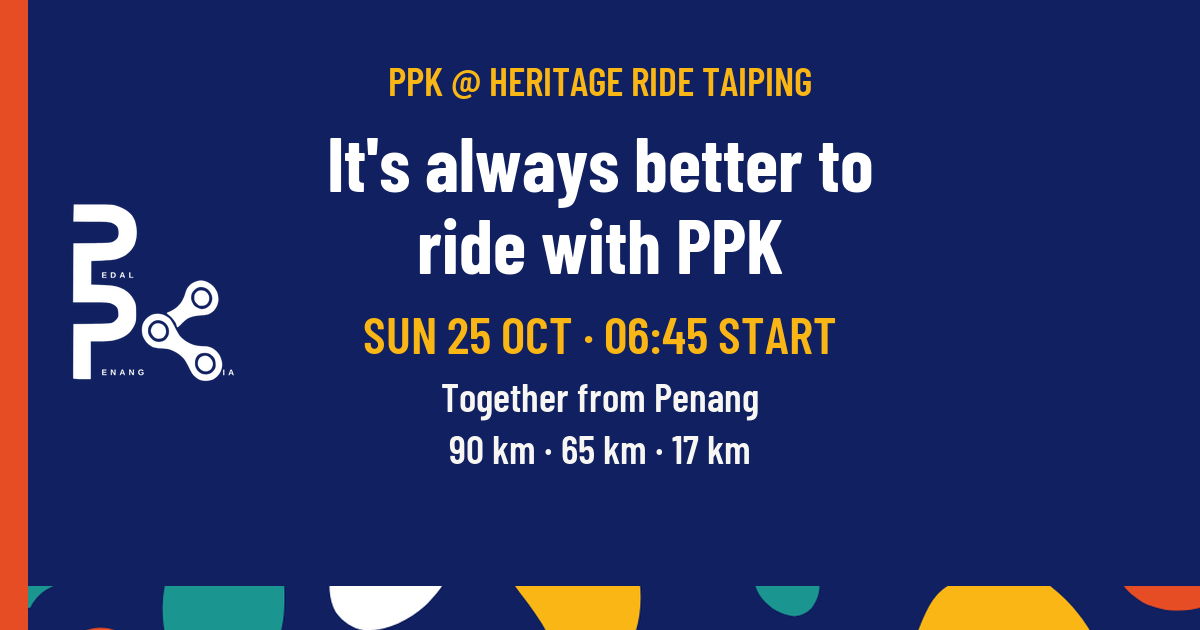
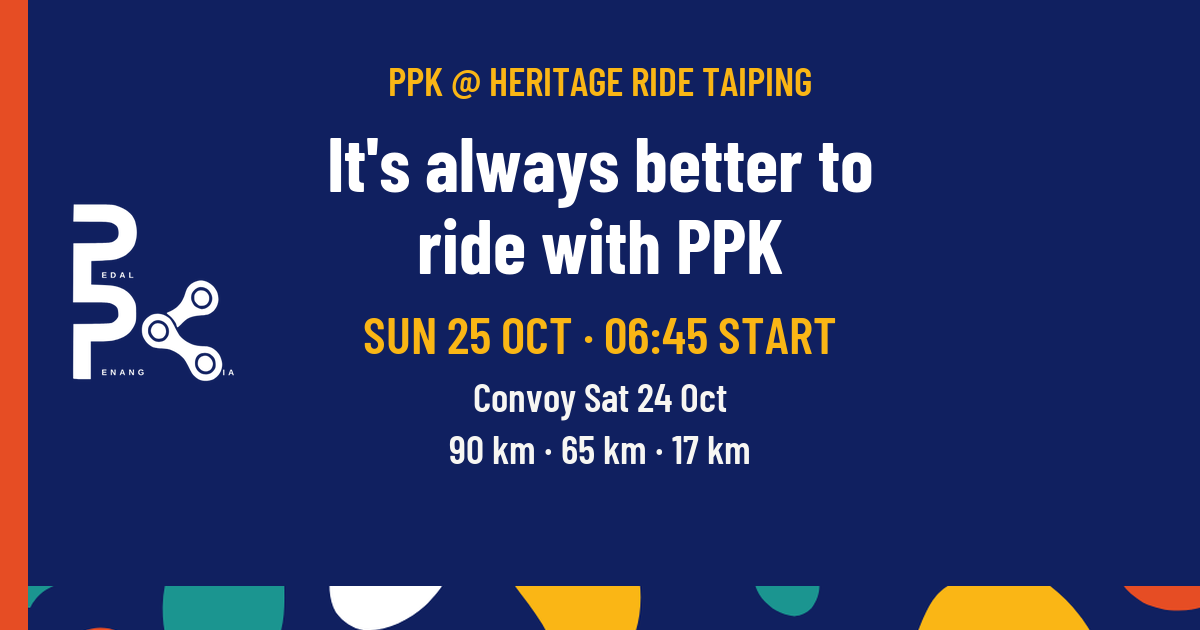
Update results site from 34cc9ff

Changed region(s): [[0.37, 0.6032, 0.6475, 0.6635]]

diff --git a/trips/heritage-ride-taiping-2026.html b/trips/heritage-ride-taiping-2026.html
@@ -30,6 +30,7 @@
 .trip-away { font-family: 'Barlow Condensed', sans-serif; font-weight: 700; font-size: 22px;
   line-height: 1.2; text-transform: uppercase; letter-spacing: .02em; margin: 12px 0 0; }
 .trip-hero p.trip-intro { color: #e6e8f3; margin: 10px 0 0; }
+.trip-hero p.trip-updated { color: #cfd3ea; font-size: 14px; margin: 12px 0 0; }
 .trip-chips { display: flex; flex-wrap: wrap; gap: 8px; margin: 14px 0 0; padding: 0;
   list-style: none; }
 .trip-chips li { border: 1.5px solid #cfd3ea; border-radius: 20px; padding: 3px 12px;
@@ -37,29 +38,63 @@
 .trip-band { height: 14px; background: var(--navy) url("ppk-pattern-2025-v1.png") center 40% / cover no-repeat;
   border-radius: 0 0 14px 14px; margin-bottom: 8px; }
 @media (min-width: 960px) { .trip-band { height: 18px; } }
-.trip a.tap { display: inline-flex; align-items: center; min-height: 44px; min-width: 44px; }
 .trip .btn { min-height: 44px; display: inline-flex; align-items: center; }
 .trip-hero .btn { background: #fff; color: var(--navy); }
 .trip-hero .btn.btn-accent { background: var(--orange); color: #fff; }
 .trip-hero .btn.btn-whatsapp { background: #25D366; color: #0B2B16; }
+.trip .btn-line { background: #fff; color: var(--navy); border: 1.5px solid var(--navy); }
+.trip .btn-line:hover { background: var(--paper); }
+.trip .btn-small { font-size: 15px; padding: 0 14px; }
+.trip .btn-accent { background: var(--orange); color: #fff; }
+.trip .btn-block { display: flex; justify-content: center; width: 100%; }
+.trip-jump { display: flex; flex-wrap: wrap; gap: 0 4px; margin: 4px 0 0; }
+.trip .trip-jump a { display: inline-flex; align-items: center; min-height: 44px; padding: 0 8px;
+  font-family: 'Barlow Condensed', sans-serif; font-weight: 600; font-size: 16px;
+  letter-spacing: .05em; text-transform: uppercase; color: var(--navy); text-decoration: none;
+  border-bottom: 2px solid transparent; }
+.trip .trip-jump a:hover { border-color: var(--orange); }
 .trip-card { background: #fff; border-radius: 12px; padding: 18px 18px 16px; margin: 16px 0 0;
   box-shadow: 0 1px 4px rgba(16,32,96,.10); }
 .trip-card h2 { margin: 0 0 10px; }
-.trip-card h3 { font-family: 'Barlow Condensed', sans-serif; font-size: 20px; color: var(--navy);
-  margin: 14px 0 6px; }
-.trip-facts { list-style: none; padding: 0; margin: 0; display: grid; gap: 12px; }
-.trip-facts b { display: block; }
-.trip-facts small, .trip-src { display: block; color: #4f5268; font-size: 14px; }
+.trip-day { display: flex; align-items: baseline; justify-content: space-between; gap: 12px;
+  margin: 0 0 12px; }
+.trip-card .trip-day h2 { margin: 0; }
+.trip-day span, .trip-kt h3, .trip-sub { font-family: 'Barlow Condensed', sans-serif;
+  font-weight: 700; letter-spacing: .08em; text-transform: uppercase; }
+.trip-day span { font-size: 16px; color: #4f5268; }
+.trip-kt { display: grid; grid-template-columns: 1fr 1fr; gap: 16px; }
+.trip-kt h3 { font-size: 17px; color: var(--navy); margin: 0 0 8px; }
+.trip-kt ul { list-style: none; padding: 0; margin: 0; display: grid; gap: 8px; }
+.trip-kt li { display: grid; grid-template-columns: 52px 1fr; gap: 6px; font-size: 15px;
+  line-height: 1.35; }
+.trip-kt .at, .trip-steps .at { font-family: 'Barlow Condensed', sans-serif; font-weight: 700;
+  color: var(--navy); text-transform: uppercase; }
+.trip-kt .at { font-size: 16px; }
+.trip-steps { list-style: none; padding: 0; margin: 0; display: grid; gap: 14px; }
+.trip-steps li { display: grid; grid-template-columns: 64px 1fr; gap: 12px; align-items: start; }
+.trip-steps .at { font-size: 18px; line-height: 1.25; }
+.trip-steps b { display: block; }
+.trip-steps p { margin: 2px 0 0; font-size: 15px; color: #4f5268; }
+.trip-acts { display: flex; flex-wrap: wrap; gap: 8px; margin: 8px 0 0; }
+.trip-warn, .trip-note { border-radius: 10px; padding: 12px 14px; margin: 16px 0 0; }
+.trip-warn { background: rgba(250,182,21,.16); border-left: 6px solid var(--mustard); }
+.trip-note { background: #dee0e9; }
+.trip-warn b, .trip-note b { display: block; }
+.trip-sub { font-size: 17px; color: var(--navy); margin: 16px 0 8px; }
+.trip-card .trip-sub:first-of-type { margin-top: 0; }
+.trip ul.trip-list { padding-left: 20px; margin: 0; }
+.trip-rows { list-style: none; padding: 0; margin: 0; border: 1px solid #e3e5ee; border-radius: 10px; }
+.trip-rows li { display: flex; align-items: center; justify-content: space-between; gap: 12px;
+  padding: 10px 12px; }
+.trip-rows li + li { border-top: 1px solid #e3e5ee; }
+.trip-rows b, .trip-contact b { display: block; }
+.trip-rows small, .trip-src { display: block; color: #4f5268; font-size: 14px; }
 .trip-src { margin-top: 12px; }
+.trip-contact { padding: 12px 0 0; margin-top: 12px; border-top: 1px solid #e3e5ee; }
+.trip-contact p { margin: 2px 0 0; font-size: 15px; color: #4f5268; }
+.trip-muted { color: #4f5268; font-size: 15px; margin: 8px 0 0; }
 .tbc { display: inline-block; border: 1.5px solid #7f849b; border-radius: 20px;
   padding: 0 10px; font-size: 14px; font-weight: 600; color: #1c1c28; margin-left: 4px; }
-.trip-steps { list-style: none; padding: 0; margin: 0; display: grid; gap: 12px; }
-.trip-steps li { display: grid; grid-template-columns: 72px 1fr; gap: 12px; }
-.trip-steps .at { font-family: 'Barlow Condensed', sans-serif; font-weight: 700; font-size: 18px;
-  color: var(--navy); text-transform: uppercase; }
-.trip-note { background: #dee0e9; border-radius: 10px; padding: 12px 14px; margin: 12px 0 0; }
-.trip-note b { display: block; }
-.trip ul.trip-list { padding-left: 20px; margin: 0; }
 .trip-faq dt { font-weight: 600; margin-top: 12px; }
 .trip-faq dd { margin: 2px 0 0; }
 </style>
@@ -370,66 +405,91 @@ footer { background: var(--navy); color: #cfd3ea; }
 <main>
 <div class="trip">
 <section class="trip-hero">
-<p class="trip-kicker">PPK away trip · Sun 25 Oct</p>
+<p class="trip-kicker">PPK away trip · Sat 24 to Sun 25 Oct</p>
 <h1>Heritage Ride <em>Taiping</em></h1>
 <p class="trip-away">It&#x27;s always better to ride with PPK</p>
-<p class="trip-intro">PPK members travel up together: carpools from Penang, one meeting point at the start, and a meal after the ride.</p>
+<p class="trip-intro">Drive up on Saturday, collect your race pack, stay the night. Race on Sunday morning, then makan.</p>
 <ul class="trip-chips" aria-label="Distances"><li>90 km</li><li>65 km</li><li>17 km fun ride</li></ul>
 <div class="home-actions"><a class="btn btn-accent" href="../rides.html">See trip listings</a><a class="btn btn-whatsapp" href="https://wa.me/?text=PPK%20%40%20Heritage%20Ride%20Taiping%202026%3A%20https%3A%2F%2Fhubertfong.github.io%2Fppk-results%2Ftrips%2Fheritage-ride-taiping-2026.html">Share on WhatsApp</a></div>
+<p class="trip-updated">Updated Sun 18 Oct</p>
 </section>
 <div class="trip-band" aria-hidden="true"></div>
-<section class="trip-card" id="event">
-<h2>The event</h2>
-<ul class="trip-facts">
-<li><b>Sun 25 Oct 2026 · 06:45 start</b><small>Entries closed on 17 September 2026. Riders without an entry are not allowed on the routes. There is no sign-up for the event on this page.</small></li>
-<li><b>Dataran Warisan Taiping, Perak</b> <a class="tap" href="https://www.google.com/maps/search/?api=1&amp;query=Dataran%20Warisan%20Taiping%2C%20Perak">Map</a><small>Start and finish</small></li>
-<li><b>90 km and 65 km races · 17 km fun ride</b><small>Flag-off: 90 km 06:45 · 65 km 07:10 · 17 km 07:25</small><small>Cut-off: 90 km 5 hours · 65 km 3.5 hours</small></li>
-<li><b>90 km route: 90.0 km and 383 m of climbing</b> <a class="tap" href="heritage-ride-taiping-2026-90km.gpx" download>Download the GPX</a><small>Load it on your bike computer before the ride.</small></li>
-<li><b>On the day</b><small>Arrive by 05:30. Riders gather at the starting arch at 06:30 for the technical briefing. Prizes at 11:00, the lucky draw at 11:30, and the event ends at 12:00.</small></li>
-<li><b>Kit collection</b><small>Sat 24 Oct only, 11:00 to 18:00, at Taiping Mall, Level G concourse. Bring your IC and your confirmation slip (a soft copy is fine). To collect for someone else, bring their completed authorisation form from the organiser.</small></li>
-<li><b>Road closures</b><small>Around Dataran Warisan Taiping, from Dewan MPT to Public Bank from Sat 24 Oct at 17:00, and from Dewan MPT to Kedai Elektrik Singer from Sat 24 Oct at 23:00, both until Sun 25 Oct at 12:00. Jalan Taming Sari is closed from 07:00 to 12:00 on Sunday.</small></li>
-</ul>
-<p class="trip-src">Run by <a href="https://www.facebook.com/GoSportzEvent/">GoSportz, with Kelab Berbasikal Elit and the office of the Member of Parliament for Taiping</a>. PPK does not run this event.</p>
-<p class="trip-src">Checked 17 Oct 2026 against facebook.com (<a href="https://www.facebook.com/GoSportzEvent/posts/pfbid0Knnib56T1KiZBsRFSVZbRHVdYYrrYmS1Tgg6Q176YRZvfwMbVZUuj8QUg5d1zoB8l" aria-label="facebook.com source 1">1</a>, <a href="https://www.facebook.com/GoSportzEvent/posts/pfbid0MNdmXWpumLLA9L4SHr5Gh41u8Tm7riJnGEAbfyGCYCqKdbjy5PEWDidjAt8MPBxWl" aria-label="facebook.com source 2">2</a>, <a href="https://www.facebook.com/GoSportzEvent/posts/pfbid0ytsfqhJgG35GwHZgueSPhbGzirk5EQ22mNZPXnZTMFto2PeuJL79z3mMt4qUZKvdl" aria-label="facebook.com source 3">3</a>, <a href="https://www.facebook.com/GoSportzEvent/posts/pfbid02gGLbjfBafSsk71GP4eBphQwGxyK1rzwfa7x3iJPi2SvvS3VshkcehG89rtnt5zmVl" aria-label="facebook.com source 4">4</a>, <a href="https://www.facebook.com/photo/?fbid=1692699242856838&amp;set=a.496464139147027" aria-label="facebook.com source 5">5</a>, <a href="https://www.facebook.com/GoSportzEvent/posts/pfbid0LiC8nBAEyg2nVUEA33zWJy2R7hhADotAgZYJt7vxkWAkb5pyAVALgjgWoHhCpVr7l" aria-label="facebook.com source 6">6</a>), <a href="https://www.utusan.com.my/terkini/2026/07/heritage-ride-taiping-sasar-2000-peserta/">utusan.com.my</a>, <a href="https://www.sinarharian.com.my/article/790300/">sinarharian.com.my</a>, <a href="https://allevents.in/taiping-pk">allevents.in</a>.</p>
+<nav class="trip-jump" aria-label="On this page"><a href="#key-times">Key times</a><a href="#saturday">Saturday</a><a href="#sunday">Sunday</a><a href="#ride">The ride</a><a href="#food">Food</a><a href="#emergency">Emergency</a></nav>
+<section class="trip-card" id="key-times">
+<h2>Key times</h2>
+<div class="trip-kt"><div><h3>Sat 24</h3><ul><li><span class="at"><span aria-hidden="true">–</span></span><span>Convoy leaves <span class="tbc">To be confirmed</span></span></li><li><span class="at">17:00</span><span>At Taiping Mall</span></li><li><span class="at"><span aria-hidden="true">–</span></span><span>Dinner <span class="tbc">To be confirmed</span></span></li></ul></div><div><h3>Sun 25</h3><ul><li><span class="at">05:30</span><span>At the start</span></li><li><span class="at">06:45</span><span>First flag-off</span></li><li><span class="at"><span aria-hidden="true">–</span></span><span>Makan <span class="tbc">To be confirmed</span></span></li></ul></div></div>
 </section>
-<section class="trip-card" id="plan">
-<h2>PPK's plan</h2>
+<div class="trip-warn" role="note"><b>Race packs: Saturday only, until 6 pm</b>Be at Taiping Mall by 5 pm. Each rider collects their own. No pack, no race.</div>
+<section class="trip-card" id="saturday">
+<div class="trip-day"><h2>Saturday</h2><span>24 Oct</span></div>
 <ol class="trip-steps">
-<li><span class="at">Sat 24</span><span>Kit collection: Sat 24 Oct only, 11:00 to 18:00, at Taiping Mall, Level G concourse. Bring your IC and your confirmation slip (a soft copy is fine). To collect for someone else, bring their completed authorisation form from the organiser. Overnight stay <span class="tbc">To be confirmed</span>.</span></li>
-<li><span class="at">Sun 25</span><span>Convoy leaves Penang <span class="tbc">Time to be confirmed</span>. Pickup points: <span class="tbc">To be confirmed</span>.</span></li>
-<li><span class="at">Before</span><span>PPK meets at the start: <span class="tbc">To be confirmed</span>. Group photo before the start.</span></li>
-<li><span class="at">06:45</span><span>Flag-off: 90 km 06:45 · 65 km 07:10 · 17 km 07:25, at Dataran Warisan Taiping, Perak.</span></li>
-<li><span class="at">After</span><span>PPK meets at the finish: <span class="tbc">To be confirmed</span>. Headcount, then the meal.</span></li>
+<li><span class="at"><span aria-hidden="true">–</span></span><div><b>Convoy leaves Penang <span class="tbc">Time to be confirmed</span></b><p>From <span class="tbc">To be confirmed</span>. Rest stop at <span class="tbc">To be confirmed</span>. Your car is a listing on <a href="../rides.html">Group rides</a>, titled "Taiping trip · Car 1 · …".</p><div class="trip-acts"><a class="btn btn-line btn-small" href="../rides.html">See the cars</a></div></div></li>
+<li><span class="at">By 17:00</span><div><b>Race pack, Taiping Mall</b><p>Sat 24 Oct only, 11:00 to 18:00, at Taiping Mall, Level G concourse. Bring your IC and your confirmation slip (a soft copy is fine). To collect for someone else, bring their completed authorisation form from the organiser.</p><div class="trip-acts"><a class="btn btn-line btn-small" href="https://www.google.com/maps/search/?api=1&amp;query=Taiping%20Mall%2C%20Taiping%2C%20Perak" aria-label="Map: Taiping Mall, Taiping, Perak">Map</a></div></div></li>
+<li><span class="at">Then</span><div><b>Check in</b><p>At your own hotel. Keep your bike in your room.</p></div></li>
+<li><span class="at"><span aria-hidden="true">–</span></span><div><b>Dinner together <span class="tbc">Time to be confirmed</span></b><p><span class="tbc">To be confirmed</span>. Sign up on <a href="../rides.html">Group rides</a> so we keep a table.</p></div></li>
+<li><span class="at">Night</span><div><b>Early night</b><p>Buy breakfast for 4:30 am. Charge your lights.</p></div></li>
 </ol>
-<h3>Getting there</h3>
-<p>Each car is a listing on <a href="../rides.html">Group rides</a>, titled <b>"Taiping trip · Car 1 · …"</b>. Book a seat with your PPK account. Pickup points are public places, never a member's home.</p>
-<div class="trip-note" role="note"><b>Share tolls and petrol with your driver.</b>Cars are arranged between members. PPK's ride terms cover the cycling, not the drive.</div>
+<div class="trip-note" role="note"><b>Share tolls and petrol with your driver.</b>Cars are arranged between members. PPK's ride terms cover the cycling, not the drive. Pickup points are public places, never a member's home.</div>
+<p class="trip-src">Checked 18 Oct 2026 against facebook.com (<a href="https://www.facebook.com/GoSportzEvent/posts/pfbid0ytsfqhJgG35GwHZgueSPhbGzirk5EQ22mNZPXnZTMFto2PeuJL79z3mMt4qUZKvdl" aria-label="facebook.com source 1">1</a>, <a href="https://www.facebook.com/GoSportzEvent/posts/pfbid0Knnib56T1KiZBsRFSVZbRHVdYYrrYmS1Tgg6Q176YRZvfwMbVZUuj8QUg5d1zoB8l" aria-label="facebook.com source 2">2</a>).</p>
 </section>
-<section class="trip-card" id="race-day">
-<h2>Race day</h2>
-<h3>Bring</h3>
-<ul class="trip-list"><li>Helmet, and front and rear lights</li><li>Your bib and ID</li><li>Spare tube, pump and tools</li><li>Water and food for your distance</li><li>PPK kit for the group photo</li></ul>
-<h3>The organiser's rules</h3>
-<p>Your rider bib and bike flag number are compulsory at check-in. On the 90 and 65 km, fix the bike bib with the timing chip to the front of the bike, 1 cm clear of any carbon. Wear a helmet and gloves. The 90 and 65 km routes split at the 4.8 km junction: follow the route signs and the marshals.</p>
+<section class="trip-card" id="sunday">
+<div class="trip-day"><h2>Sunday</h2><span>25 Oct · race day</span></div>
+<ol class="trip-steps">
+<li><span class="at">04:30</span><div><b>Wake up and eat</b><p>Hotel breakfast won't be open yet.</p></div></li>
+<li><span class="at">05:30</span><div><b>At the start</b><p>Dataran Warisan Taiping, Perak. Park at <span class="tbc">To be confirmed</span>.</p><div class="trip-acts"><a class="btn btn-line btn-small" href="https://www.google.com/maps/search/?api=1&amp;query=Dataran%20Warisan%20Taiping%2C%20Perak" aria-label="Map: start: Dataran Warisan Taiping, Perak">Map: start</a></div></div></li>
+<li><span class="at"><span aria-hidden="true">–</span></span><div><b>PPK meets <span class="tbc">Time to be confirmed</span></b><p><span class="tbc">To be confirmed</span>. Group photo.</p></div></li>
+<li><span class="at">06:30</span><div><b>Briefing at the starting arch</b></div></li>
+<li><span class="at">06:45</span><div><b>Flag-off</b><p>90 km 06:45 · 65 km 07:10 · 17 km 07:25</p></div></li>
+<li><span class="at">After</span><div><b>PPK meets at the finish</b><p><span class="tbc">To be confirmed</span>. Headcount before anyone leaves.</p></div></li>
+<li><span class="at">11:00</span><div><b>Prizes</b></div></li>
+<li><span class="at">11:30</span><div><b>Lucky draw</b></div></li>
+<li><span class="at">12:00</span><div><b>The event ends</b></div></li>
+<li><span class="at"><span aria-hidden="true">–</span></span><div><b>Makan <span class="tbc">Time to be confirmed</span></b><p><span class="tbc">To be confirmed</span>. Sign up on <a href="../rides.html">Group rides</a>.</p></div></li>
+<li><span class="at">Later</span><div><b>See Taiping, then home</b><p>Optional. PPK's picks are under Food and sightseeing.</p></div></li>
+</ol>
+<p class="trip-src">Checked 17 Oct 2026 against facebook.com (<a href="https://www.facebook.com/GoSportzEvent/posts/pfbid0MNdmXWpumLLA9L4SHr5Gh41u8Tm7riJnGEAbfyGCYCqKdbjy5PEWDidjAt8MPBxWl" aria-label="facebook.com source 1">1</a>, <a href="https://www.facebook.com/GoSportzEvent/posts/pfbid0Knnib56T1KiZBsRFSVZbRHVdYYrrYmS1Tgg6Q176YRZvfwMbVZUuj8QUg5d1zoB8l" aria-label="facebook.com source 2">2</a>, <a href="https://www.facebook.com/GoSportzEvent/posts/pfbid0ytsfqhJgG35GwHZgueSPhbGzirk5EQ22mNZPXnZTMFto2PeuJL79z3mMt4qUZKvdl" aria-label="facebook.com source 3">3</a>), <a href="https://www.utusan.com.my/terkini/2026/07/heritage-ride-taiping-sasar-2000-peserta/">utusan.com.my</a>, <a href="https://www.sinarharian.com.my/article/790300/">sinarharian.com.my</a>, <a href="https://allevents.in/taiping-pk">allevents.in</a>.</p>
+</section>
+<section class="trip-card" id="ride">
+<h2>The ride</h2>
+<ul class="trip-rows"><li><div><b>90 km race</b><small>Flag-off 06:45</small><small>Cut-off 5 hours</small></div></li><li><div><b>65 km race</b><small>Flag-off 07:10</small><small>Cut-off 3.5 hours</small></div></li><li><div><b>17 km fun ride</b><small>Flag-off 07:25</small></div></li></ul>
+<ul class="trip-list" style="margin-top:12px"><li>Ride your own pace. PPK regroups at the finish, not on the road.</li></ul>
+<div class="trip-warn" role="note"><b>Official GPX: to be confirmed</b>The file below is from Garmin Connect, not the organiser, and may differ from the race route. Have the organiser&#x27;s GPX? Please share it in the PPK WhatsApp group.</div>
+<ul class="trip-rows" style="margin-top:12px"><li><div><b>90 km route file (unofficial)</b><small>90.0 km · 383 m of climbing</small></div><a class="btn btn-line btn-small" href="heritage-ride-taiping-2026-90km.gpx" download>Download</a></li></ul>
+<p class="trip-src">Checked 17 Oct 2026 against facebook.com (<a href="https://www.facebook.com/GoSportzEvent/posts/pfbid0Knnib56T1KiZBsRFSVZbRHVdYYrrYmS1Tgg6Q176YRZvfwMbVZUuj8QUg5d1zoB8l" aria-label="facebook.com source 1">1</a>, <a href="https://www.facebook.com/GoSportzEvent/posts/pfbid02gGLbjfBafSsk71GP4eBphQwGxyK1rzwfa7x3iJPi2SvvS3VshkcehG89rtnt5zmVl" aria-label="facebook.com source 2">2</a>).</p>
+</section>
+<section class="trip-card" id="before">
+<h2>Before you go</h2>
+<p class="trip-sub">The organiser's rules</p>
+<ul class="trip-list"><li>Your rider bib and bike flag number are compulsory at check-in.</li><li>On the 90 and 65 km, fix the bike bib with the timing chip to the front of the bike, 1 cm clear of any carbon.</li><li>Wear a helmet and gloves.</li><li>The 90 and 65 km routes split at the 4.8 km junction: follow the route signs and the marshals.</li></ul>
 <p class="trip-src">Checked 17 Oct 2026 against facebook.com (<a href="https://www.facebook.com/GoSportzEvent/posts/pfbid02LAdX7cnK64MXjSitQL2tYQF7tiw4XZnPe9BajnGpoueSnemdZWrGoNzkJPmUZnYql" aria-label="facebook.com source 1">1</a>, <a href="https://www.facebook.com/GoSportzEvent/posts/pfbid02gGLbjfBafSsk71GP4eBphQwGxyK1rzwfa7x3iJPi2SvvS3VshkcehG89rtnt5zmVl" aria-label="facebook.com source 2">2</a>).</p>
-<h3>The 90 km and 65 km are races</h3>
-<p>Ride your own race. PPK regroups at the finish meeting point, not on the road.</p>
+<p class="trip-sub">Bring</p>
+<ul class="trip-list"><li>Helmet, gloves, front and rear lights (it&#x27;s dark at the start)</li><li>IC, confirmation slip, bib</li><li>Spare tube, pump and tools</li><li>Water and food for your distance</li><li>A rain jacket</li><li>Breakfast for 4:30 am</li><li>PPK kit for the group photo</li></ul>
 </section>
-<section class="trip-card" id="meals">
-<h2>Meals and sightseeing</h2>
-<ul class="trip-facts">
-<li><b>Makan after the ride</b> <span class="tbc">To be confirmed</span><small>Sign up on <a href="../rides.html">Group rides</a> so we can book a table. Family welcome.</small></li>
-<li><b>Sightseeing</b> <span class="tbc">To be confirmed</span><small>Optional, before the drive home.</small></li>
-</ul>
+<section class="trip-card" id="closures">
+<h2>Road closures</h2>
+<ul class="trip-rows"><li><div><b>Dewan MPT to Public Bank</b><small>Sat 24 Oct 17:00 to Sun 25 Oct 12:00</small></div></li><li><div><b>Dewan MPT to Kedai Elektrik Singer</b><small>Sat 24 Oct 23:00 to Sun 25 Oct 12:00</small></div></li><li><div><b>Jalan Taming Sari</b><small>Sun 25 Oct 07:00 to 12:00</small></div></li></ul>
+<p class="trip-muted">Park outside these roads.</p>
+<p class="trip-src">Checked 17 Oct 2026 against <a href="https://www.facebook.com/GoSportzEvent/posts/pfbid0MNdmXWpumLLA9L4SHr5Gh41u8Tm7riJnGEAbfyGCYCqKdbjy5PEWDidjAt8MPBxWl">facebook.com</a>.</p>
+</section>
+<section class="trip-card" id="food">
+<h2>Food and sightseeing</h2>
+<p class="trip-muted" style="margin-top:0">PPK&#x27;s suggestions, not the organiser&#x27;s. Check the hours before you go.</p>
+<p class="trip-sub">Saturday dinner</p>
+<ul class="trip-rows"><li><div><b>Larut Matang Hawker Centre</b><small>Many stalls, no booking</small></div><a class="btn btn-line btn-small" href="https://www.google.com/maps/search/?api=1&amp;query=Larut%20Matang%20Hawker%20Centre%2C%20Jalan%20Iskandar%2C%20Taiping" aria-label="Map: Larut Matang Hawker Centre, Jalan Iskandar, Taiping">Map</a></li><li><div><b>MJ&#x27;s Cuisine</b><small>Sit-down; book a table</small></div><a class="btn btn-line btn-small" href="https://www.google.com/maps/search/?api=1&amp;query=MJ%27s%20Cuisine%2C%2036A%20Jalan%20Kota%2C%20Taiping" aria-label="Map: MJ&#x27;s Cuisine, 36A Jalan Kota, Taiping">Map</a></li></ul>
+<p class="trip-sub">Sunday makan</p>
+<ul class="trip-rows"><li><div><b>Yat Sun Restaurant</b><small>Hainanese chicken chop</small></div><a class="btn btn-line btn-small" href="https://www.google.com/maps/search/?api=1&amp;query=Yat%20Sun%20Restaurant%2C%2063%20Jalan%20Pasar%2C%20Taiping" aria-label="Map: Yat Sun Restaurant, 63 Jalan Pasar, Taiping">Map</a></li><li><div><b>Tai Chien</b><small>Curry mee; until 3:30 pm</small></div><a class="btn btn-line btn-small" href="https://www.google.com/maps/search/?api=1&amp;query=Tai%20Chien%2C%2079%20Jalan%20Pasar%2C%20Taiping" aria-label="Map: Tai Chien, 79 Jalan Pasar, Taiping">Map</a></li><li><div><b>Ansari Famous Cendol</b><small>Dessert</small></div><a class="btn btn-line btn-small" href="https://www.google.com/maps/search/?api=1&amp;query=Ansari%20Famous%20Cendol%2C%20Jalan%20Barrack%2C%20Taiping" aria-label="Map: Ansari Famous Cendol, Jalan Barrack, Taiping">Map</a></li></ul>
+<p class="trip-sub">See</p>
+<ul class="trip-rows"><li><div><b>Taiping Lake Gardens</b><small>The Raintree Walk; easy on tired legs</small></div><a class="btn btn-line btn-small" href="https://www.google.com/maps/search/?api=1&amp;query=Taiping%20Lake%20Gardens%2C%20Taiping" aria-label="Map: Taiping Lake Gardens, Taiping">Map</a></li><li><div><b>Zoo Taiping</b><small>Some bibs hold a free ticket</small></div><a class="btn btn-line btn-small" href="https://www.google.com/maps/search/?api=1&amp;query=Zoo%20Taiping%2C%20Taiping" aria-label="Map: Zoo Taiping, Taiping">Map</a></li><li><div><b>Perak Museum</b><small>Indoors, if it rains</small></div><a class="btn btn-line btn-small" href="https://www.google.com/maps/search/?api=1&amp;query=Perak%20Museum%2C%20Taiping" aria-label="Map: Perak Museum, Taiping">Map</a></li></ul>
 </section>
 <section class="trip-card" id="emergency">
 <h2>If something goes wrong</h2>
-<ul class="trip-facts">
-<li><b>Emergency: <a class="tap" href="tel:999">999</a></b><small>Then tell the race marshals and the PPK group.</small></li>
-<li><b>Race HQ</b> <span class="tbc">To be confirmed</span></li>
-<li><b>Nearest hospital</b> <span class="tbc">To be confirmed</span></li>
-</ul>
-<p class="trip-src">Checked 17 Oct 2026 against <a href="https://www.malaysia.gov.my/en/topics/mers-999-emergency-line">malaysia.gov.my</a>.</p>
+<a class="btn btn-accent btn-block" href="tel:999">Call 999</a>
+<p class="trip-muted">Then tell a marshal and the PPK group.</p>
+<div class="trip-warn" role="note"><b>Jalan Taming Sari is closed 7 am to 12 pm on Sunday</b>Call 999 or tell a marshal. Don&#x27;t drive a hurt rider through closed roads.</div>
+<div class="trip-contact"><b>Race HQ</b><p>At the start and finish, Dataran Warisan Taiping.</p><div class="trip-acts"><a class="btn btn-line btn-small" href="https://www.google.com/maps/search/?api=1&amp;query=Dataran%20Warisan%20Taiping%2C%20Perak" aria-label="Map: Dataran Warisan Taiping, Perak">Map</a></div></div>
+<div class="trip-contact"><b>The organiser: GoSportz</b><p>03-9057 0222 · enquiry@gosportz.my</p><div class="trip-acts"><a class="btn btn-line btn-small" href="https://m.me/GoSportzEvent">Message GoSportz on Facebook</a><a class="btn btn-line btn-small" href="tel:+60390570222">Call</a><a class="btn btn-line btn-small" href="mailto:enquiry@gosportz.my">Email</a></div></div>
+<div class="trip-contact"><b>Nearest hospital</b><p>Hospital Taiping, Jalan Taming Sari, 34000 Taiping. The government hospital, with an emergency department.</p><div class="trip-acts"><a class="btn btn-line btn-small" href="https://www.google.com/maps/search/?api=1&amp;query=Hospital%20Taiping%2C%20Jalan%20Taming%20Sari%2C%20Taiping" aria-label="Map: Hospital Taiping, Jalan Taming Sari, Taiping">Map</a><a class="btn btn-line btn-small" href="tel:+6058204000">Call 05-8204000</a></div></div>
+<p class="trip-src">Checked 18 Oct 2026 against <a href="https://www.malaysia.gov.my/en/topics/mers-999-emergency-line">malaysia.gov.my</a>, facebook.com (<a href="https://www.facebook.com/GoSportzEvent/posts/pfbid0MNdmXWpumLLA9L4SHr5Gh41u8Tm7riJnGEAbfyGCYCqKdbjy5PEWDidjAt8MPBxWl" aria-label="facebook.com source 1">1</a>, <a href="https://www.facebook.com/GoSportzEvent/about" aria-label="facebook.com source 2">2</a>), <a href="https://jknperak.moh.gov.my/htaiping/v2/index.php/hubungi-kami/alamat-lokasi">jknperak.moh.gov.my</a>.</p>
 </section>
 <section class="trip-card" id="faq">
 <h2>Questions</h2>
@@ -439,15 +499,12 @@ footer { background: var(--navy); color: #cfd3ea; }
 <dt>Can I still enter?</dt>
 <dd>Entries closed on 17 September 2026. Riders without an entry are not allowed on the routes.</dd>
 <dt>Can family come?</dt>
-<dd>Yes, in the cars and at the meal. Arrange their seats with your driver.</dd>
+<dd>Yes, in the cars and at meals. Arrange their seats with your driver.</dd>
 <dt>Who do I ask?</dt>
-<dd>Ask in the PPK WhatsApp group.</dd>
+<dd>The PPK WhatsApp group.</dd>
 </dl>
-</section>
-<section class="trip-card" id="join">
-<h2>How to join</h2>
-<p>Car seats, the meal and meetups are listings on <a href="../rides.html">Group rides</a>, titled "Taiping trip · …". Sign up there with your PPK account.</p>
-<div class="home-actions"><a class="btn" href="../rides.html">Group rides</a></div>
+<p class="trip-src">Run by <a href="https://www.facebook.com/GoSportzEvent/">GoSportz, with Kelab Berbasikal Elit and the office of the Member of Parliament for Taiping</a>. PPK does not run this event.</p>
+<p class="trip-src">Checked 17 Oct 2026 against facebook.com (<a href="https://www.facebook.com/GoSportzEvent/posts/pfbid0Knnib56T1KiZBsRFSVZbRHVdYYrrYmS1Tgg6Q176YRZvfwMbVZUuj8QUg5d1zoB8l" aria-label="facebook.com source 1">1</a>, <a href="https://www.facebook.com/GoSportzEvent/posts/pfbid0MNdmXWpumLLA9L4SHr5Gh41u8Tm7riJnGEAbfyGCYCqKdbjy5PEWDidjAt8MPBxWl" aria-label="facebook.com source 2">2</a>, <a href="https://www.facebook.com/photo/?fbid=1692699242856838&amp;set=a.496464139147027" aria-label="facebook.com source 3">3</a>, <a href="https://www.facebook.com/GoSportzEvent/posts/pfbid0LiC8nBAEyg2nVUEA33zWJy2R7hhADotAgZYJt7vxkWAkb5pyAVALgjgWoHhCpVr7l" aria-label="facebook.com source 4">4</a>), <a href="https://www.utusan.com.my/terkini/2026/07/heritage-ride-taiping-sasar-2000-peserta/">utusan.com.my</a>, <a href="https://www.sinarharian.com.my/article/790300/">sinarharian.com.my</a>, <a href="https://allevents.in/taiping-pk">allevents.in</a>.</p>
 </section>
 </div>
 </main>
